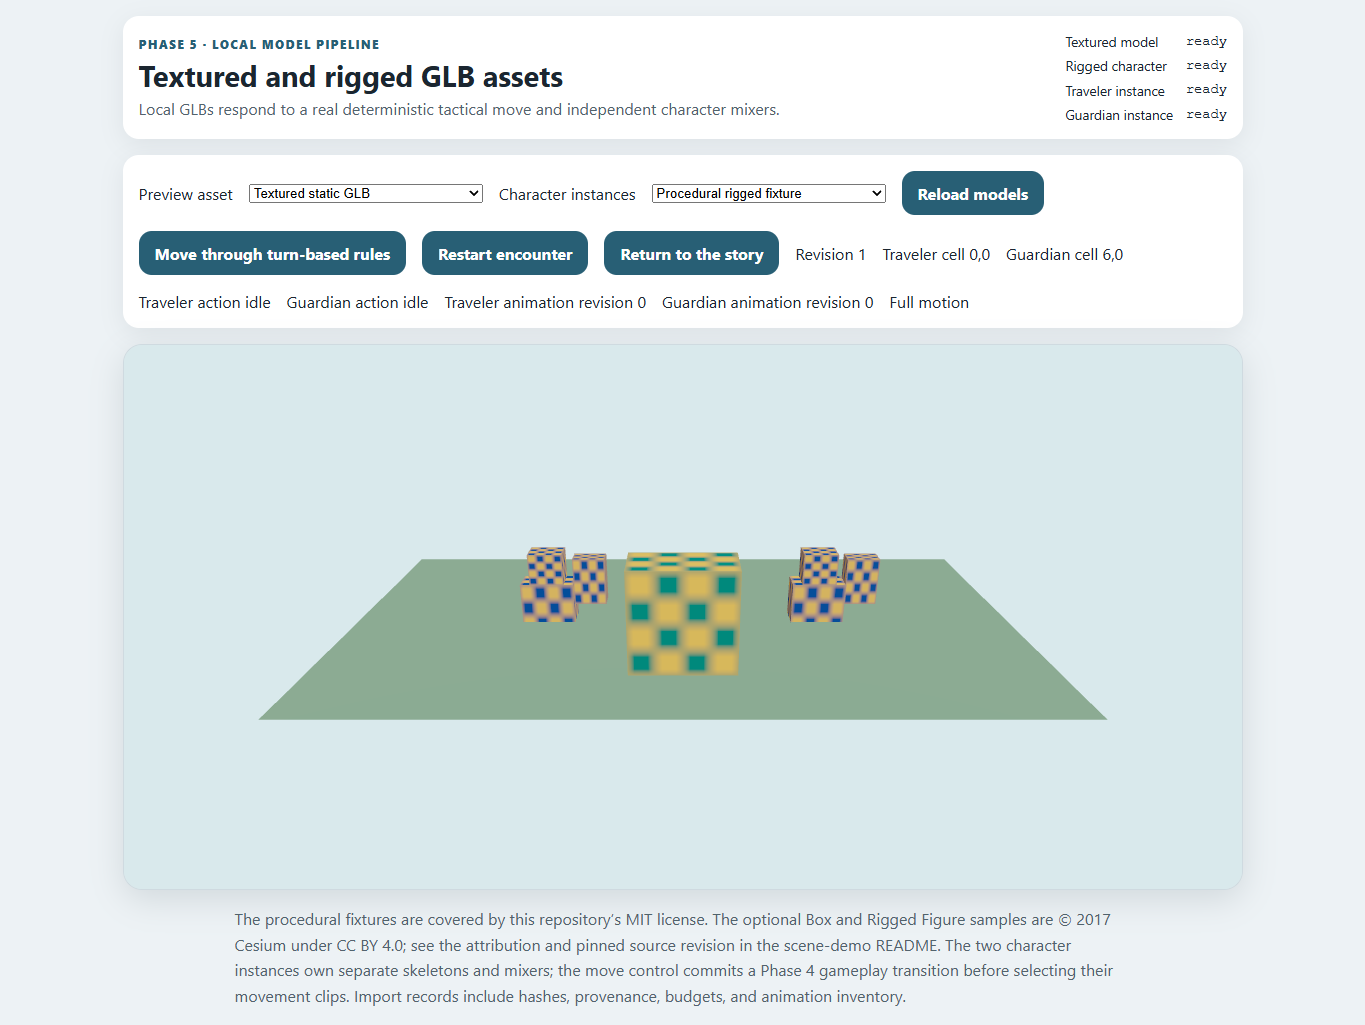
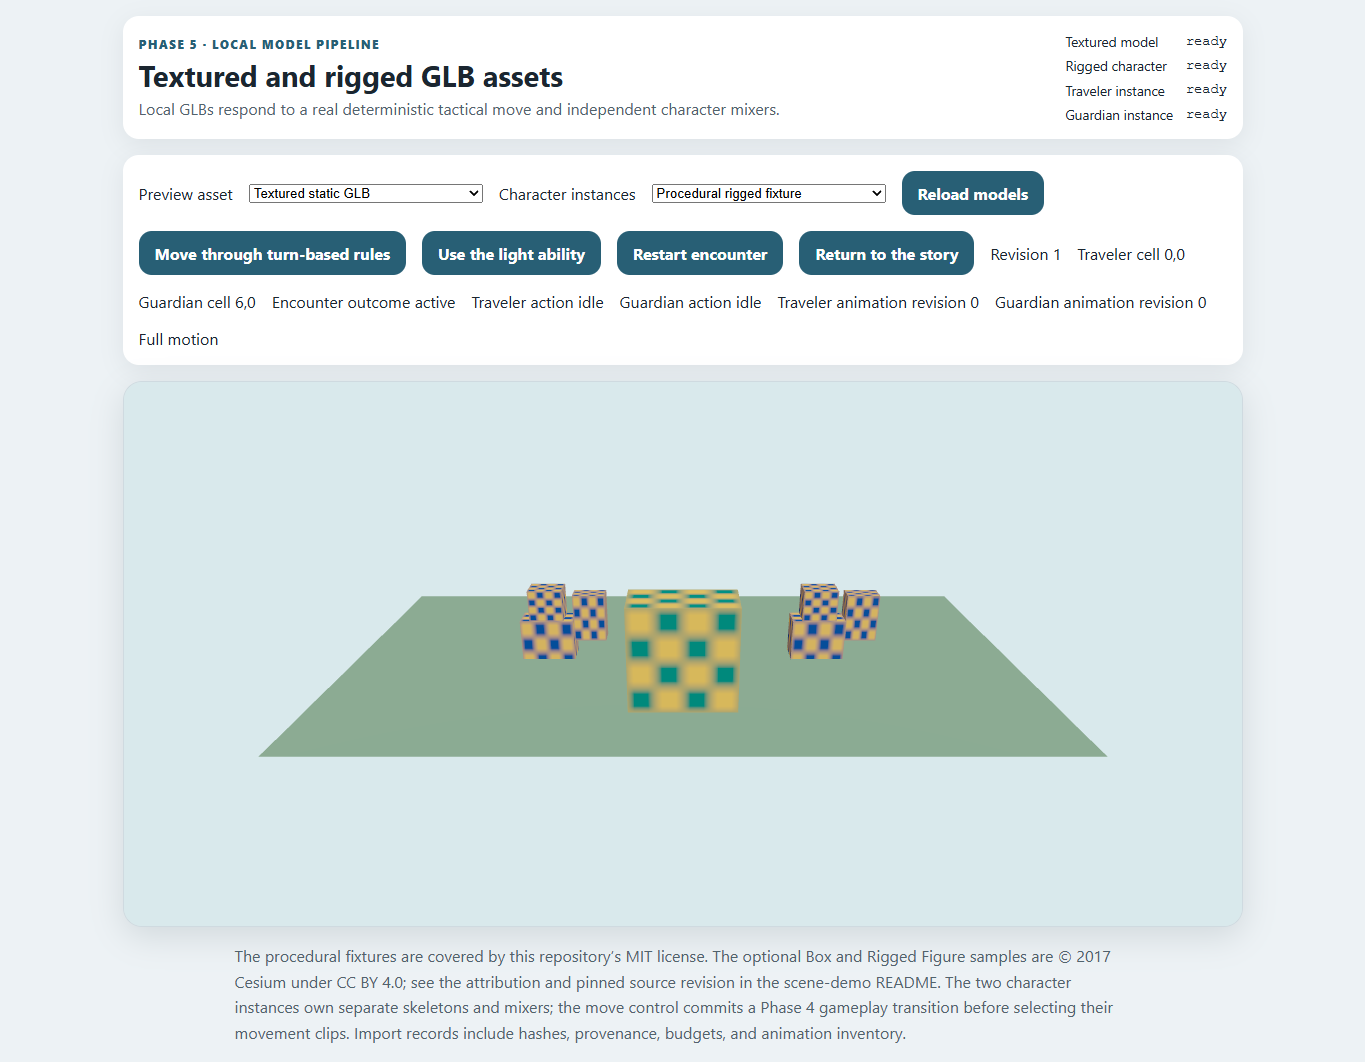
docs(phase5): refresh verified previews and evidence

diff --git a/.plans/phase-5-model-animation-cinematics.md b/.plans/phase-5-model-animation-cinematics.md
@@ -214,8 +214,28 @@ The implementation branch begins from the latest fetched `main`. Commit P5.0 thr
 - Ruling: the original `codex/phase5-completion` checkout was outside this session's writable roots, so its committed tip was preserved and a separate local completion branch/worktree was created. Cost if wrong: the final commits are on `codex/phase5-completion-finalize`, which must be the branch pushed for review rather than the earlier worktree branch.
 - P5.2 lifecycle closure: independently cloned rig skeletons and mixers, instance-isolated action clocks, accepted-command-only action projection, fallback actions, stale-command no-ops, cancellation/late-load disposal, one-instance release, context-loss recovery, and five warmed scene/remount cycles pass in the browser. Chromium/SwiftShader measured 4 geometries/5 textures for the model route and 6 geometries/1 texture before and after five map round trips; scene and model idle-frame deltas were zero. The repeated-cycle tolerance is +1 geometry/+1 texture.
 - P5.3 presentation closure: the private validated timeline supports camera, registered animation, DOM dialogue, local audio, effects, and explicit waits. Play/skip/cancel/replay, reduced motion, focus restoration, stale-run protection, and lease cleanup are covered; presentation does not change durable narrative/gameplay state. A final code review exposed an R3F camera-change cleanup edge; the cleanup now retains the latest release callback without tying player disposal to camera identity. The production smoke verifies reload during an active sequence returns to idle with audio/effect/animation leases released.
-- P5.4 capture closure: `npm run sample:phase5:previews` and the combined `npm run sample:scene:previews` both passed against the production build. Nine distinct Chromium screenshots exist under `docs/previews/phase5/`; the manifest source commit is `cbb9a59ebd2131a63c88e7530de5a0e800fbb191`. It records Chromium 153.0.8010.12, headless SwiftShader, desktop 1365×1000 and portrait 390×844, source asset sizes/triangles/decoded texture estimates/joints/clips/load times, renderer measurements, and PNG SHA-256/dimensions. Physical mobile GPUs and other browsers were not tested.
-- Final local verification on Node `v22.23.5`: `npm run verify` passed formatting, roadmap check, lint, model importer tests (9), framework boundaries, core tests (15), narrative tests (34), gameplay tests (29), narrative consumer, TypeScript typecheck, application tests (60 files/572 tests), content/assets, bundle budgets/deploy checks, and hello-world/scene-demo builds. Existing warnings remain: 48 draft-content warnings, 5 placeholder-asset warnings, and the non-blocking large Three.js chunk advisory.
-- Independent package and application gates passed: `npm run framework:consumer` (core tarball, ESM/declarations, Vite and Chromium); `npm run framework:narrative-consumer` (24 packed files); `npm run framework:gameplay-consumer` (33 packed files); `npm run framework:scene-consumer` (offline three-package archives, typecheck, 77 scene-demo unit tests, build and Chromium smoke); `npm run framework:garden-consumer` (offline archives, declarations, tests, production build and Chromium smoke); `npm run framework:watch:check`; `npm --prefix examples/scene-demo run test` (11 files/77 tests); and `npm --prefix examples/scene-demo run test:e2e` (production lifecycle, narrative, model, animation, cinematic, focus, reduced-motion, context recovery, offline and memory bounds). `npm run sample:gallery`, `npm run roadmap:sync`, `npm run roadmap:check`, and `npm run format:check` passed.
+- P5.4 capture closure: `npm run sample:phase5:previews` and the combined `npm run sample:scene:previews` both passed against the production build. Nine distinct Chromium screenshots exist under `docs/previews/phase5/`; the latest manifest source commit is `127c96cdb740cf0de72e47d610681f866555fbd7`. It records Node 22.23.5 on win32 x64 10.0.19044, Chromium 153.0.8010.12, the WebGL-reported ANGLE/SwiftShader renderer, desktop 1365×1000 and portrait 390×844, source asset sizes/triangles/decoded texture estimates/joints/clips/load times, renderer measurements, and PNG SHA-256/dimensions. Every image hash and dimension was rechecked against the manifest. Physical mobile GPUs and other browsers were not tested.
+- Final local verification on Node `v22.23.5`: `npm run verify` passed formatting, roadmap check, lint, model importer tests (9), framework boundaries/builds, core tests (15), narrative tests (34), gameplay tests (29), narrative consumer, typecheck, application tests (61 files/580 tests), content/assets, bundle budgets/deploy checks, and hello-world/scene-demo builds. The scene-demo unit suite passed 85 tests across 12 files; production Chromium lifecycle/cinematic smoke passed with model renderer memory at 4 geometries/5 textures before and after. Existing warnings remain: 48 draft-content warnings, 5 placeholder-asset warnings, and the non-blocking large Three.js/example chunk advisory.
+- Independent package and application gates passed: `npm run framework:consumer` (core tarball, ESM/declarations, Vite and Chromium); `npm run framework:narrative-consumer` (24 packed files); `npm run framework:gameplay-consumer` (33 packed files); `npm run framework:scene-consumer` (offline three-package archives, typecheck, unit tests, build and Chromium smoke); `npm run framework:garden-consumer` (offline archives, declarations, tests, production build and Chromium smoke); and `npm run framework:watch:check`. Both `npm run sample:phase5:previews` and `npm run sample:scene:previews` passed; the README gallery was current, and `npm run roadmap:check` passed after the final roadmap evidence edit.
 - The canonical roadmap and generated README intentionally continue to show Phase 5 as **In progress** and Phase 6 as Planned. GitHub Actions has not run on this local branch, so the Node 22.0.0 floor, full four-shard Kids RPG E2E, and merge-triggered screenshot/artifact workflow require candidate CI. Automated documentation PR creation also depends on repository Actions settings. No physical-device or cross-browser claim is made. Deferred capabilities remain arbitrary-rig retargeting, FBX/OBJ/Blender conversion, runtime external `.gltf` resources, Phase 6 tools, and physical-device performance validation.
-- Local code commits in this implementation chain: `25b23e66963e0e03b0759483248c382cc3ca2d48`, `ee5e6e0db1607fd2cfbab99249316648927c9d76`, and lifecycle correction `cbb9a59ebd2131a63c88e7530de5a0e800fbb191`. The final handoff records the documentation/evidence commit SHA separately.
+- Local code commits in this implementation chain: `25b23e66963e0e03b0759483248c382cc3ca2d48`, `ee5e6e0db1607fd2cfbab99249316648927c9d76`, `cbb9a59ebd2131a63c88e7530de5a0e800fbb191`, `c9856a514d8eabc2a34ec0872d29d04253ece118`, and `127c96cdb740cf0de72e47d610681f866555fbd7`.
+
+### Post-review correction record
+
+Fresh review of `7e65819..c9856a5` identified nine important issues. The fix pass kept the adapter private to `examples/scene-demo` and used regression-first tests:
+
+1. A delayed `webglcontextlost` event from a retired model canvas could falsely show recovery UI after a successful reload. The listener now requires the same registered probe, the current exposed probe, and an actually lost current context. The production smoke reproduced and now rejects the retired-canvas alert.
+2. Skipping before the first R3F frame could leave a timeline caption visible. `CinematicStage` now clears transient caption and busy state even when no camera lease was acquired; a component test and production immediate-skip smoke pass.
+3. Timeline operations could act on an earlier run, and calling `play` twice restarted an active sequence. `skip`, `cancel`, `resolveWait`, and `advance` are execution-ID scoped; active `play` is idempotent while `replay` creates a new run. Tests cover cancelled/stale callbacks and replay isolation.
+4. Cue ownership validation compared only adjacent spans. It now tracks the last occupied span per owner, rejecting interleaved overlaps; regression test passes.
+5. Camera/effect cue tracks continued invalidating R3F while the timeline waited for player input. Waiting now settles until an explicit action invalidates the scene; a wait with overlapping tracks and stable browser frame count are tested.
+6. Aborting the only waiter during parsing left an aborted entry cached, so a retry inherited it. The exact pending entry is removed when its last waiter cancels; a fresh retry now fetches/parses independently and the late parser result still disposes safely.
+7. Gameplay projection did not demonstrate a committed defeat action. The sample now has an authored light ability; the accepted gameplay-package command produces a terminal state and projects `combat`/`defeat` from the before/after health state. Unit and production browser assertions verify the actual package outcome and revision.
+8. The movement screenshot waited for its animation-completion promise and captured `idle`. The new timing assertion first failed as expected (`idle !== move`); capture now occurs while the registered move action is active and verifies the action remains active through screenshot capture. Provenance records the actual OS, Node, Chromium, and WebGL renderer rather than assuming Linux.
+9. The screenshot workflow's plain text diff could not carry PNG bytes. It now writes `git diff --binary --full-index`; a temporary baseline test applied the patch and verified all seven changed files including exact PNG bytes.
+
+Verification after corrections: scene-demo unit suite 85/85 across 12 files; focused timeline, loader, stage, and gameplay projection regressions pass; scene-demo production Chromium lifecycle/cinematic smoke passes, including immediate skip, retired-canvas reload, real ability outcome, five warm transitions, stable waiting/idle frames, and renderer memory at 4 geometries/5 textures before and after. The corrected standalone and combined screenshot commands pass, and all nine manifest hashes match the PNG files.
+
+Review items deliberately deferred: (a) wait-mode enumerations and tighter camera-coordinate/same-position validation; (b) restricting workflow artifact upload to only the current manifest entries. Neither was needed to fix the reported regressions and both remain minor follow-up work.
+
+Review areas not independently judged: physical-device performance and non-Chromium behavior, GitHub Actions execution, importer/optional Blender internals, and exhaustive final disposal of every shared GPU resource. Rulings: keep Phase 5 **In progress** pending candidate CI; make no physical-device/cross-browser claim; retain earlier importer evidence without claiming a new audit; and limit lifecycle claims to the resource counters and cleanup paths actually exercised. Cost if wrong: an unobserved browser, importer, or resource-lifetime issue could remain.

diff --git a/docs/FRAMEWORK-ROADMAP.md b/docs/FRAMEWORK-ROADMAP.md
@@ -248,11 +248,11 @@ Local acceptance on Node 22.23.5 passes `npm run verify` (572 application tests 
 
 The re-audit starts from PR #121 merge `7e658199eefa308c73bb0b9662b09e1dfc467867` in isolated worktree `codex/phase5-completion-finalize`. It found that the earlier implementation evidence did not prove all animation-isolation, presentation-lease, and production-capture acceptance details. The new local record keeps Three.js and timeline code private to `examples/scene-demo`; no framework package API or Kids RPG save/gameplay contract changed.
 
-P5.2 now verifies separate skeletons and mixers, isolated animation clocks, stale-command no-op behavior, aborted/late-load disposal, one-instance release, active-animation context recovery, and five remount/map-transition cycles. In the latest Chromium/SwiftShader measurements, the model renderer settled at 4 geometries/5 textures, the map renderer remained 6 geometries/1 texture before and after five warm map round trips, and scene/model idle frame deltas were both zero. P5.3 uses a validated JSON-compatible cue registry and a private deterministic runner for camera, animation, Persian DOM dialogue, local audio, effects, and explicit waits. Skip/cancel/replay and reduced motion preserve the committed narrative snapshot; active audio, effect, camera, animation, input, and focus leases are released or restored.
+P5.2 now verifies separate skeletons and mixers, isolated animation clocks, stale-command no-op behavior, aborted/late-load disposal and retry, one-instance release, active-animation context recovery, and five remount/map-transition cycles. Review follow-up tests cover retired canvas events and ensure canceled parses do not poison a retry. In the latest Chromium/SwiftShader measurements, the model renderer settled at 4 geometries/5 textures, the map renderer remained 6 geometries/1 texture before and after five warm map round trips, and scene/model idle frame deltas were both zero. P5.3 uses a validated JSON-compatible cue registry and a private deterministic runner for camera, animation, Persian DOM dialogue, local audio, effects, and explicit waits. Run-ID-scoped controls, overlap validation, immediate skip cleanup, and demand-render settling during player waits are tested; skip/cancel/replay and reduced motion preserve the committed narrative snapshot.
 
-P5.4's production Chromium capture contains nine distinct rendered states, checks asset and scene readiness, verifies no external requests or browser errors, and records asset bytes, triangles, decoded-texture estimate, joints, clip inventory, measured load duration, renderer counters, the measured accepted move animation, five map round trips, PNG dimensions, and SHA-256 hashes. The manifest is `docs/previews/phase5/provenance.json`; its source commit is `cbb9a59ebd2131a63c88e7530de5a0e800fbb191`. The browser is Chromium 153.0.8010.12 with headless SwiftShader at 1365×1000 and 390×844. No physical mobile GPU or other browser is claimed.
+P5.4's production Chromium capture contains nine distinct rendered states, checks asset and scene readiness, verifies no external requests or browser errors, and records asset bytes, triangles, decoded-texture estimate, joints, clip inventory, measured load duration, renderer counters, the measured accepted move animation, five map round trips, PNG dimensions, and SHA-256 hashes. The manifest is `docs/previews/phase5/provenance.json`; its source commit is `127c96cdb740cf0de72e47d610681f866555fbd7`. The capture records Node 22.23.5 on win32 x64 10.0.19044, Chromium 153.0.8010.12, and the actual WebGL ANGLE/SwiftShader renderer at 1365×1000 and 390×844. No physical mobile GPU or other browser is claimed.
 
-Local final verification passed `npm run verify`, all core/narrative/gameplay/scene/Garden installed-tarball consumer checks, `npm run framework:watch:check`, 77 scene-demo unit tests, and the production Chromium lifecycle/cinematic smoke. Both standalone Phase 5 and combined Blood Leaf + Phase 5 screenshot commands passed. The canonical roadmap remains **In progress** until candidate CI verifies the Node 22.0.0 floor, package consumers, and existing-game compatibility. The screenshot workflow uploads artifacts and emits a review patch by default; automated documentation PR creation is an explicit `FRAMEWORK_ROADMAP_AUTOPR=true` opt-in and also requires the repository's GitHub Actions PR-creation setting.
+Final local verification on this branch passed `npm run verify` (61 files/580 tests), the core/narrative/gameplay/scene/Garden installed-tarball consumer checks, `npm run framework:watch:check`, the scene-demo unit suite (12 files/85 tests), and production Chromium lifecycle/cinematic smoke. Both standalone Phase 5 and combined Blood Leaf + Phase 5 screenshot commands passed; the workflow's binary patch was applied to an isolated baseline and its PNG bytes verified. The canonical roadmap remains **In progress** until candidate CI verifies the Node 22.0.0 floor, package consumers, and existing-game compatibility. The screenshot workflow uploads artifacts and emits a review patch by default; automated documentation PR creation is an explicit `FRAMEWORK_ROADMAP_AUTOPR=true` opt-in and also requires the repository's GitHub Actions PR-creation setting.
 
 ## Compatibility, policy and risks
 
